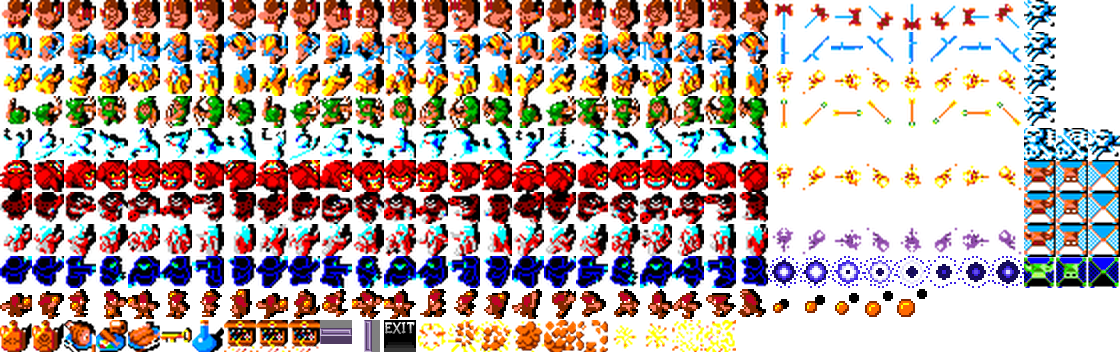
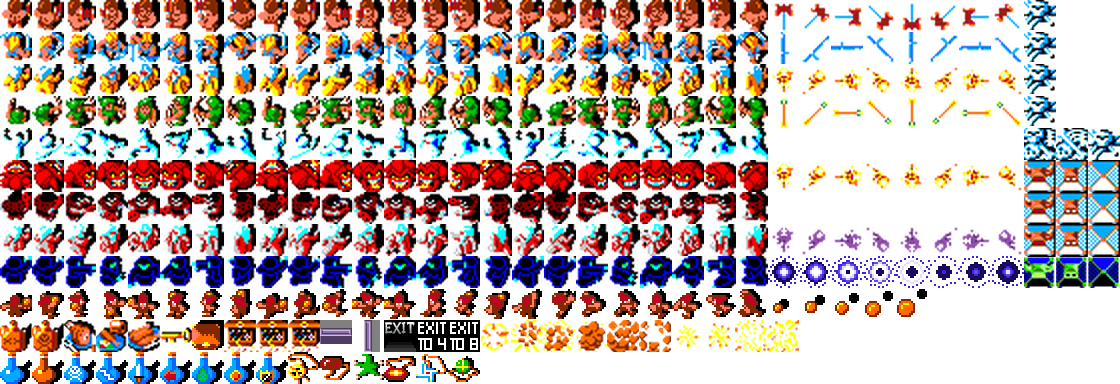
treasure updates / gfx

diff --git a/js/gauntlet.js b/js/gauntlet.js
@@ -58,8 +58,9 @@ Gauntlet = function() {
         FOOD2:   { sx: 3, sy: 10, frames: 1, fpf: FPS/10, score:  10, health:  200,   sound: 'food'   },
         FOOD3:   { sx: 4, sy: 10, frames: 1, fpf: FPS/10, score:  10, health:  200,   sound: 'food'   },
         KEY:     { sx: 5, sy: 10, frames: 1, fpf: FPS/10, score:  20, key:    true,  sound: 'key'    },
-        POTION:  { sx: 6, sy: 10, frames: 1, fpf: FPS/10, score:  50, potion: true,  sound: 'potion' },
-        GOLD:    { sx: 7, sy: 10, frames: 3, fpf: FPS/10, score: 100,                sound: 'gold'   }
+        POTION:  { sx: 0, sy: 11, frames: 1, fpf: FPS/10, score:  50, potion: true,  sound: 'potion' },
+        GOLD:    { sx: 7, sy: 10, frames: 3, fpf: FPS/10, score: 100,                sound: 'gold'   },
+        LOCKED:    { sx: 6, sy: 10, frames: 1, fpf: FPS/10, score: 500,                sound: 'gold'   }
       },
 // after {n} health tics with no player move / fire, all walls are exits
 		WALLSTALL = 200,
@@ -70,16 +71,18 @@ Gauntlet = function() {
         HORIZONTAL: { sx: 10, sy: 10, speed: 0.05*FPS, horizontal: true,  vertical: false, dx: 2, dy: 0 },
         VERTICAL:   { sx: 11, sy: 10, speed: 0.05*FPS, horizontal: false, vertical: true,  dx: 0, dy: 8 },
         EXIT:       { sx: 12, sy: 10, speed: 3*FPS, fpf: FPS/30 },
+        EXIT4:       { sx: 13, sy: 10, speed: 3*FPS, fpf: FPS/30 },
+        EXIT8:       { sx: 14, sy: 10, speed: 3*FPS, fpf: FPS/30 },
       },
       FX = {
-        GENERATOR_DEATH: { sx: 13, sy: 10, frames: 6, fpf: FPS/10 },
-        MONSTER_DEATH:   { sx: 13, sy: 10, frames: 6, fpf: FPS/20 },
-        WEAPON_HIT:      { sx: 19, sy: 10, frames: 2, fpf: FPS/20 },
+        GENERATOR_DEATH: { sx: 15, sy: 10, frames: 6, fpf: FPS/10 },
+        MONSTER_DEATH:   { sx: 15, sy: 10, frames: 6, fpf: FPS/20 },
+        WEAPON_HIT:      { sx: 21, sy: 10, frames: 2, fpf: FPS/20 },
         PLAYER_GLOW:     { frames: FPS/2, border: 5 }
       },
       PLAYERS   = [ PLAYER.WARRIOR, PLAYER.VALKYRIE, PLAYER.WIZARD, PLAYER.ELF ],
       MONSTERS  = [ MONSTER.GHOST, MONSTER.DEMON, MONSTER.GRUNT, MONSTER.WIZARD, MONSTER.DEATH, MONSTER.LOBBER, MONSTER.GHOST1, MONSTER.DEMON1, MONSTER.GRUNT1, MONSTER.WIZARD1, MONSTER.LOBBER1, MONSTER.GHOST2, MONSTER.DEMON2, MONSTER.GRUNT2, MONSTER.WIZARD2, MONSTER.LOBBER2 ],
-      TREASURES = [ TREASURE.HEALTH, TREASURE.POISON, TREASURE.FOOD1, TREASURE.FOOD2, TREASURE.FOOD3, TREASURE.KEY, TREASURE.POTION, TREASURE.GOLD ],
+      TREASURES = [ TREASURE.HEALTH, TREASURE.POISON, TREASURE.FOOD1, TREASURE.FOOD2, TREASURE.FOOD3, TREASURE.KEY, TREASURE.POTION, TREASURE.GOLD, TREASURE.LOCKED ],
       CBOX = {
         FULL:    { x: 0,      y: 0,      w: TILE,   h: TILE          },
         PLAYER:  { x: TILE/4, y: TILE/4, w: TILE/2, h: TILE - TILE/4 },
